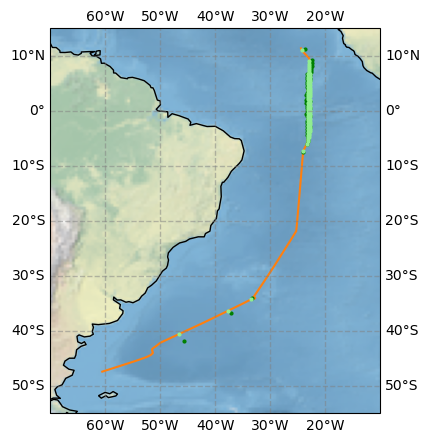
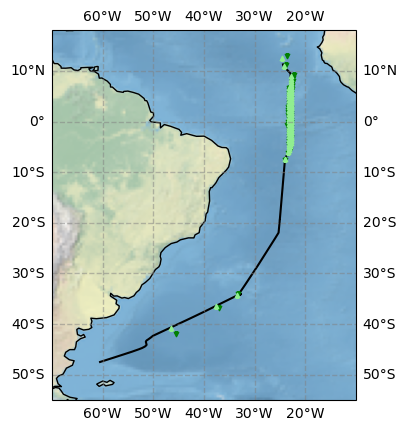
Update position plots

diff --git a/README.md b/README.md
@@ -6,36 +6,33 @@ This repository contains references to the atmospheric measurements and their po
 
 The cruise started January 23, 2023 in Mindelo, Cape Verde and ended February 22, 2023 in Punta Arenas, Chile.
 
-Further general information about the cruise can be found in the [cruise report](https://www.ldf.uni-hamburg.de/merian/wochenberichte/wochenberichte-merian/msm114-msm118/scr-msm-114-2.pdf)
+Further general information about the cruise can be found in the [cruise report](https://www.ldf.uni-hamburg.de/merian/wochenberichte/wochenberichte-merian/msm114-msm118/scr-msm-114-2.pdf). The data is described in detail in this [paper](UPDATE).
 
-## Datasets
+## Data sets
+
+The data from the different instruments has been standardised with the [shippy](UPDATE) package to simplify the comparison between different instruments as much as possible. For reprocessing the data, use the python environment from `environment.yaml` and run `reprocess.sh`.
 
 ### Cruise track
 ![image](plots/MSM114-2_cruise_track.png)
 
-The continuous measurements (Ship integrated sensors, HATPRO, Ceilometer, DustTrack) contain data of the time period from 2023-01-25 07:00 until 2023-02-20 15:00. The start point is at 11.29˚N and 24.39˚W, the end point is at 47.48˚S and 60.62˚W. In between, the equator was crossed three times to get three complete profiles of the ITCZ which are marked by the coordinate "section" in the datasets. Section 0 corresponds to the times before the first crossing, section 1, 2, 3 correspond to crossings 1, 2, 3, respectively, and section 4 is everything after the third crossing.
+The continuous measurements (Ship integrated sensors, Ceilometer, DustTrack) except the HATPRO contain data of the time period from 2023-01-25 07:00 until 2023-02-20 15:00 shown in orange. The start point is at 11.29˚N and 24.39˚W, the end point is at 47.48˚S and 60.62˚W. Quality controlled HATPRO data is available until 2023-02-15 00:00. The positions of the point measurements (Radiosondes, HATPRO, CTD, Calitoo, Microtops) are shown below. The equator was crossed three times during the cruise to get three complete profiles of the ITCZ which are marked by the coordinate "section" in the data sets. Section 0 corresponds to the times before the first crossing, section 1, 2, 3 correspond to crossings 1, 2, 3, respectively, and section 4 is everything after the third crossing. The insets are zooms in the marked rectangular regions.
 
 ### Overview about sounding positions
 ![image](plots/MSM114-2_RS_positions.png)
 
-In total, 93 radiosondes were launched. Light green dots show the positions of the radiosonde launches, dark green dots show the position where the descent starts.
+In total, 93 radiosondes were launched. Light green triangles show the positions of the radiosonde launches, dark green triangles show the position where the descent starts.
 
 ### Overview about CTD and UAV positions
-![image](plots/MSM114-2_CTD_positions.png)
+![image](plots/MSM114-2_CTD_UAV_positions.png)
 
-Most of the time, CTDs were done twice a day (yellow dots). When the (wind) conditions allowed for it, the UAVs were flown during the CTD times when the ship was not moving (red dots).
+Most of the time, CTDs were done twice a day (yellow triangles). When the (wind) conditions allowed for it, the UAVs were flown during the CTD times when the ship was not moving (orange triangles).
 
-### Overview about Microtops positions
-![image](plots/MSM114-2_Microtops_positions.png)
+### Overview about Microtops and Calitoo positions
+![image](plots/MSM114-2_Microtops_Calitoo_positions.png)
 
-Microtops data was post processed by [NASA Aeronet Maritim Aerosol Network (MAN)](https://aeronet.gsfc.nasa.gov/new_web/maritime_aerosol_network_v3.html). 
+Calitoo (red dots) and Microtops (blue points) measurements where done during the whole complete when the weather and conditions allowed. Microtops data was post processed by [NASA Aeronet Maritim Aerosol Network (MAN)](https://aeronet.gsfc.nasa.gov/new_web/maritime_aerosol_network_v3.html). 
 
-### Overview about Calitoo positions
-![image](plots/MSM114-2_Calitoo_positions.png)
-
-Calitoo measurements where done during the whole complete when the weather and conditions allowed.
-
-## Minimal examples
+## Minimal plotting examples
 
 ### Continuous measurements
 
@@ -69,8 +66,6 @@ plt.savefig("ARC_RS_Level2_Crossing1.png", bbox_inches="tight")
 ```
 ![image](plots/ARC_RS_Level2_Crossing1.png)
 
-### UAV 
-
 ### CTD
 
 Plot CTD data for the first crossing if the ITCZ up to 500 m depth. The deeper CTDs up to 3793 m were done during section 2 and 4.
@@ -99,4 +94,4 @@ plt.savefig(f"ARC_RS_Level2_Crossing{crossing_number}.png", bbox_inches="tight")
 ```
 ![image](plots/ARC_CTD_Crossing1.png)
 
-### Calitoo and Microtops
+### Profile
